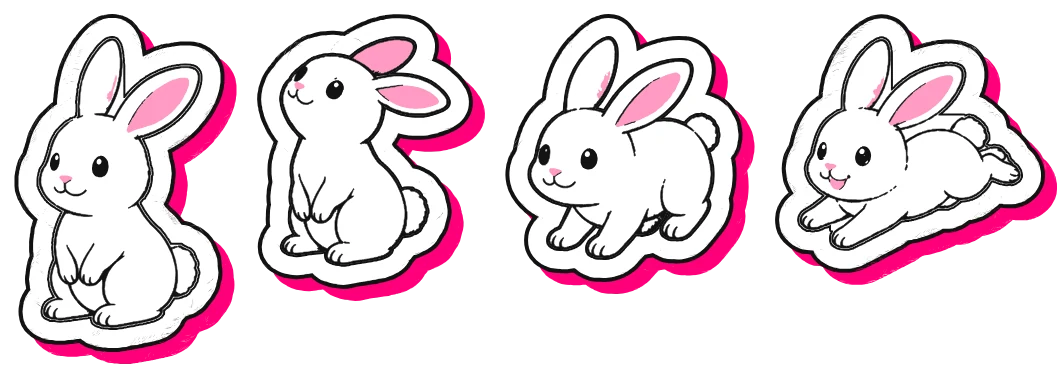
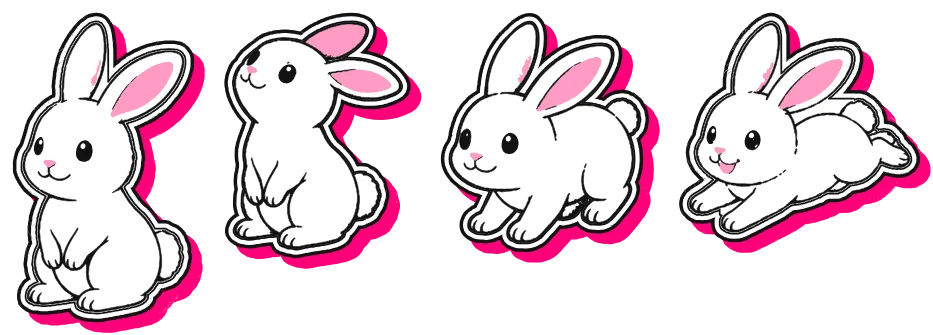
style: Narrow the hero rabbit's die-cut rim to a hairline.

Changed region(s): [[0.0, 0.0299, 1.0, 1.0]]

diff --git a/src/lib/hero-field-rabbit.ts b/src/lib/hero-field-rabbit.ts
@@ -19,10 +19,10 @@ interface AtlasFrame {
 
 /* Must match the atlas layout the frames were packed with. */
 export const RABBIT_FRAMES: Readonly<Record<RabbitPose, AtlasFrame>> = {
-  sit: { x: 0, y: 0, w: 239, h: 366, footX: 119, footY: 328 },
-  look: { x: 243, y: 0, w: 244, h: 303, footX: 122, footY: 264 },
-  crouch: { x: 491, y: 0, w: 266, h: 296, footX: 133, footY: 258 },
-  leap: { x: 761, y: 0, w: 298, h: 287, footX: 149, footY: 248 },
+  sit: { x: 0, y: 0, w: 207, h: 335, footX: 103, footY: 312 },
+  look: { x: 211, y: 0, w: 213, h: 271, footX: 106, footY: 249 },
+  crouch: { x: 428, y: 0, w: 234, h: 265, footX: 117, footY: 242 },
+  leap: { x: 666, y: 0, w: 267, h: 255, footX: 133, footY: 233 },
 };
 
 /** Atlas pixels per drawing unit; sets the rabbit's size, about 90 units tall sitting. */
